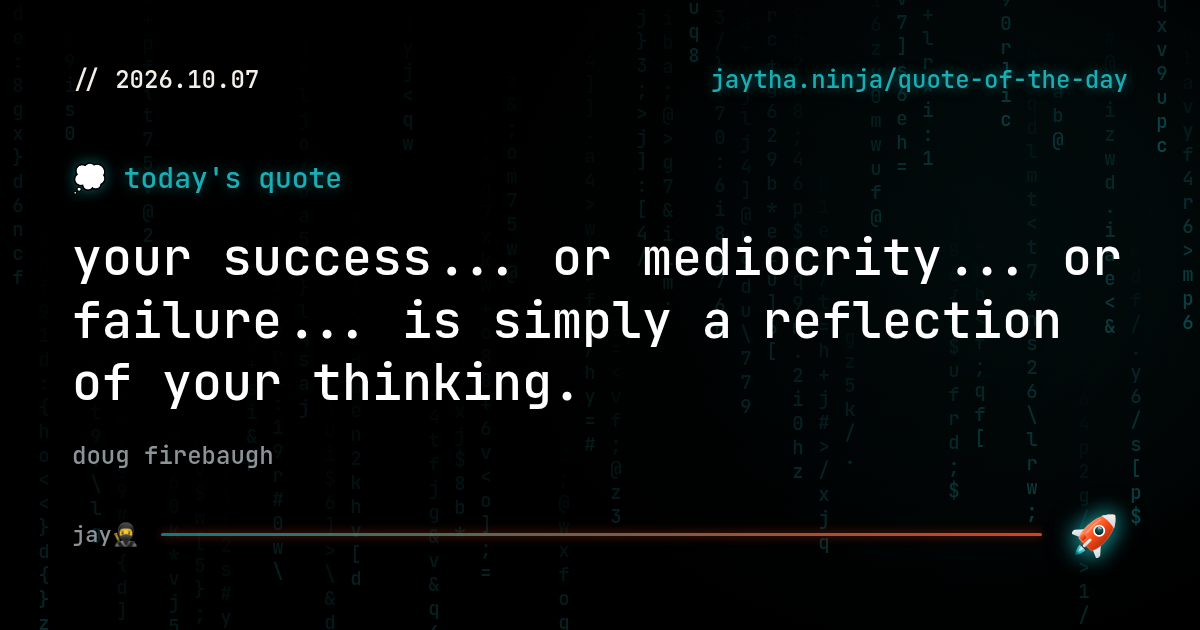
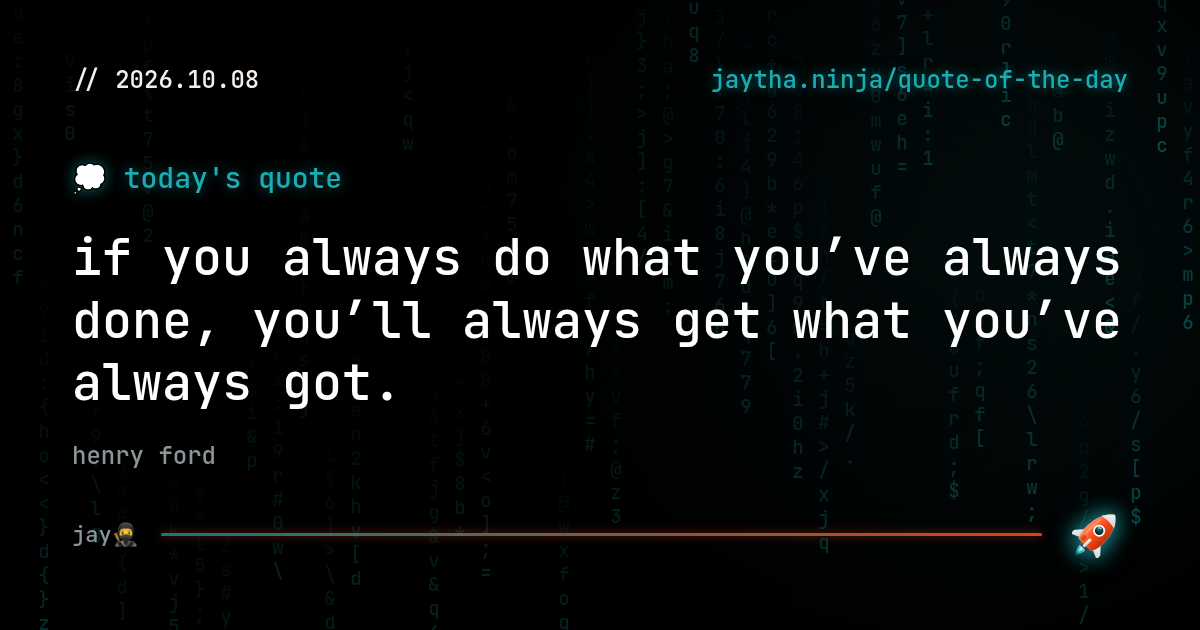
drop 2026-10-08 (manual): The Jacka, Andre Nickatina - Glamorous Lifestyle; daily update + snap
manual same-day drop for 2026-10-08 (live now): song, daily update + snap; share cards rendered live into site/og with ?d=2026-10-08.

diff --git a/site/index.html b/site/index.html
@@ -444,7 +444,7 @@ a:focus-visible,button:focus-visible{outline:2px solid var(--c);outline-offset:2
 <meta property="og:url" content="https://jaytha.ninja/">
 <meta property="og:title" content="jay tha ninja">
 <meta property="og:description" content="a human building something human, with a little help from his 🤖 team">
-<meta property="og:image" content="https://jaytha.ninja/og/home.png?d=2026-10-07">
+<meta property="og:image" content="https://jaytha.ninja/og/home.png?d=2026-10-08">
 <meta property="og:image:width" content="1200">
 <meta property="og:image:height" content="630">
 <meta property="og:image:type" content="image/png">
@@ -453,7 +453,7 @@ a:focus-visible,button:focus-visible{outline:2px solid var(--c);outline-offset:2
 <meta name="twitter:site" content="@jaythaninja">
 <meta name="twitter:title" content="jay tha ninja">
 <meta name="twitter:description" content="a human building something human, with a little help from his 🤖 team">
-<meta name="twitter:image" content="https://jaytha.ninja/og/home.png?d=2026-10-07">
+<meta name="twitter:image" content="https://jaytha.ninja/og/home.png?d=2026-10-08">
 <meta name="twitter:image:alt" content="the intro on jaytha.ninja: the internet was a place to make genuine connections with other humans, somewhere along the way, we messed up, my team and i hope to run it back">
 <script type="application/ld+json">{"@context": "https://schema.org", "@type": "Person", "name": "jay", "url": "https://jaytha.ninja/", "sameAs": ["https://x.com/jaythaninja", "https://www.instagram.com/jaythaninja", "https://www.threads.com/jaythaninja", "https://github.com/jaythaninja", "https://www.strava.com/athletes/64153021", "https://www.linkedin.com/in/jaythaninja"]}</script>
 <link rel="stylesheet" href="/assets/rain.css?v=1.82"><script src="/assets/rain.js?v=1.82"></script>

diff --git a/site/song-of-the-day/index.html b/site/song-of-the-day/index.html
@@ -99,7 +99,7 @@ a:focus-visible{outline:2px solid var(--c);outline-offset:2px}
 <meta property="og:url" content="https://jaytha.ninja/song-of-the-day/">
 <meta property="og:title" content="song of the day · jay tha ninja">
 <meta property="og:description" content="a song a day, straight from jay's playlist">
-<meta property="og:image" content="https://jaytha.ninja/og/song.png?d=2026-10-07">
+<meta property="og:image" content="https://jaytha.ninja/og/song.png?d=2026-10-08">
 <meta property="og:image:width" content="1200">
 <meta property="og:image:height" content="630">
 <meta property="og:image:type" content="image/png">
@@ -108,7 +108,7 @@ a:focus-visible{outline:2px solid var(--c);outline-offset:2px}
 <meta name="twitter:site" content="@jaythaninja">
 <meta name="twitter:title" content="song of the day · jay tha ninja">
 <meta name="twitter:description" content="a song a day, straight from jay's playlist">
-<meta name="twitter:image" content="https://jaytha.ninja/og/song.png?d=2026-10-07">
+<meta name="twitter:image" content="https://jaytha.ninja/og/song.png?d=2026-10-08">
 <meta name="twitter:image:alt" content="today's song of the day on jaytha.ninja: the album art, a lyric and the artist">
 <link rel="stylesheet" href="/assets/rain.css?v=1.82"><script src="/assets/rain.js?v=1.82"></script>
 <link rel="stylesheet" href="/assets/foot.css?v=1.67"><script src="/assets/foot.js?v=1.67" defer></script>

diff --git a/site/quote-of-the-day/index.html b/site/quote-of-the-day/index.html
@@ -91,7 +91,7 @@ a:focus-visible{outline:2px solid var(--c);outline-offset:2px}
 <meta property="og:url" content="https://jaytha.ninja/quote-of-the-day/">
 <meta property="og:title" content="quote of the day · jay tha ninja">
 <meta property="og:description" content="a quote a day, a different person every day">
-<meta property="og:image" content="https://jaytha.ninja/og/quote.png?d=2026-10-07">
+<meta property="og:image" content="https://jaytha.ninja/og/quote.png?d=2026-10-08">
 <meta property="og:image:width" content="1200">
 <meta property="og:image:height" content="630">
 <meta property="og:image:type" content="image/png">
@@ -100,7 +100,7 @@ a:focus-visible{outline:2px solid var(--c);outline-offset:2px}
 <meta name="twitter:site" content="@jaythaninja">
 <meta name="twitter:title" content="quote of the day · jay tha ninja">
 <meta name="twitter:description" content="a quote a day, a different person every day">
-<meta name="twitter:image" content="https://jaytha.ninja/og/quote.png?d=2026-10-07">
+<meta name="twitter:image" content="https://jaytha.ninja/og/quote.png?d=2026-10-08">
 <meta name="twitter:image:alt" content="today's quote of the day on jaytha.ninja">
 <link rel="stylesheet" href="/assets/rain.css?v=1.82"><script src="/assets/rain.js?v=1.82"></script>
 <link rel="stylesheet" href="/assets/foot.css?v=1.67"><script src="/assets/foot.js?v=1.67" defer></script>

diff --git a/site/snap-of-the-day/index.html b/site/snap-of-the-day/index.html
@@ -96,7 +96,7 @@ a:focus-visible{outline:2px solid var(--c);outline-offset:2px}
 <meta property="og:url" content="https://jaytha.ninja/snap-of-the-day/">
 <meta property="og:title" content="snap of the day · jay tha ninja">
 <meta property="og:description" content="one photo a day, from jay">
-<meta property="og:image" content="https://jaytha.ninja/og/snap.png?d=2026-10-07">
+<meta property="og:image" content="https://jaytha.ninja/og/snap.png?d=2026-10-08">
 <meta property="og:image:width" content="1200">
 <meta property="og:image:height" content="630">
 <meta property="og:image:type" content="image/png">
@@ -105,7 +105,7 @@ a:focus-visible{outline:2px solid var(--c);outline-offset:2px}
 <meta name="twitter:site" content="@jaythaninja">
 <meta name="twitter:title" content="snap of the day · jay tha ninja">
 <meta name="twitter:description" content="one photo a day, from jay">
-<meta name="twitter:image" content="https://jaytha.ninja/og/snap.png?d=2026-10-07">
+<meta name="twitter:image" content="https://jaytha.ninja/og/snap.png?d=2026-10-08">
 <meta name="twitter:image:alt" content="today's snap of the day on jaytha.ninja: one photo from jay">
 <link rel="stylesheet" href="/assets/rain.css?v=1.82"><script src="/assets/rain.js?v=1.82"></script>
 <link rel="stylesheet" href="/assets/foot.css?v=1.67"><script src="/assets/foot.js?v=1.67" defer></script>
